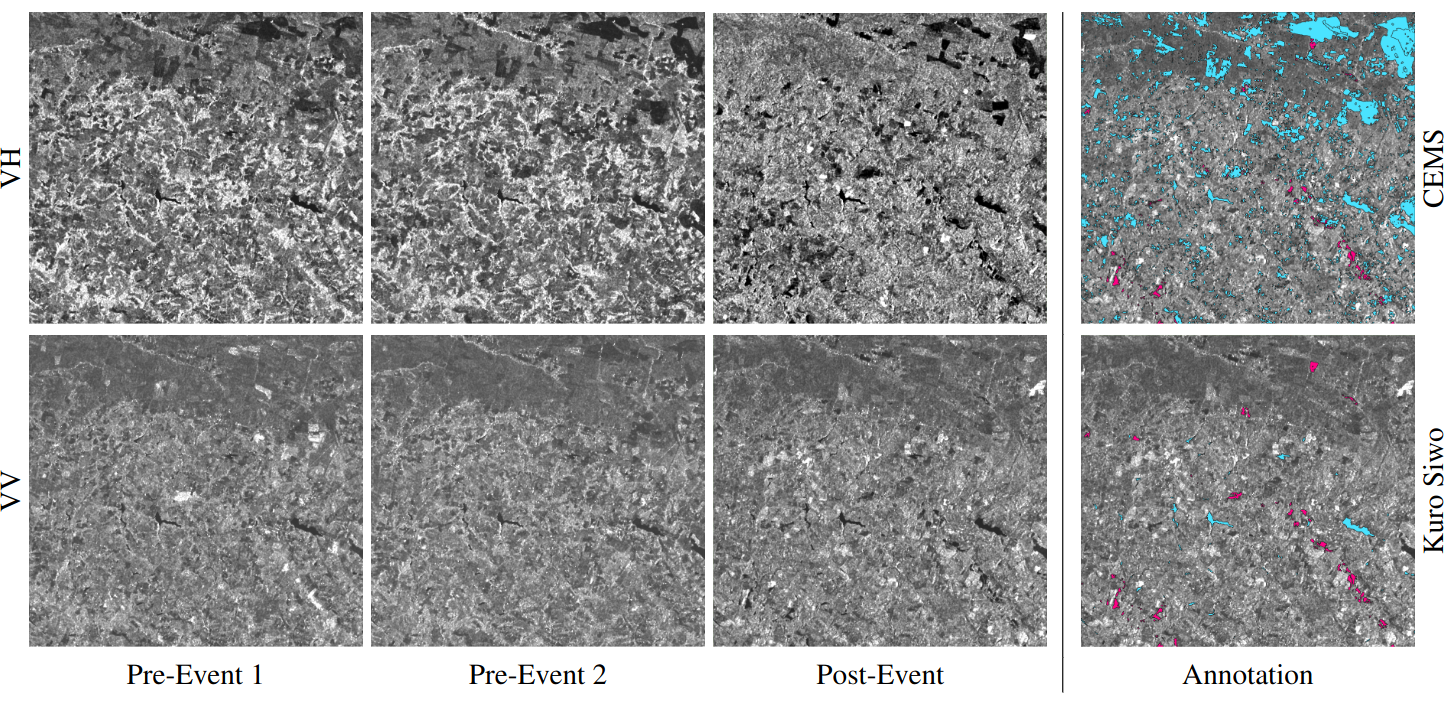
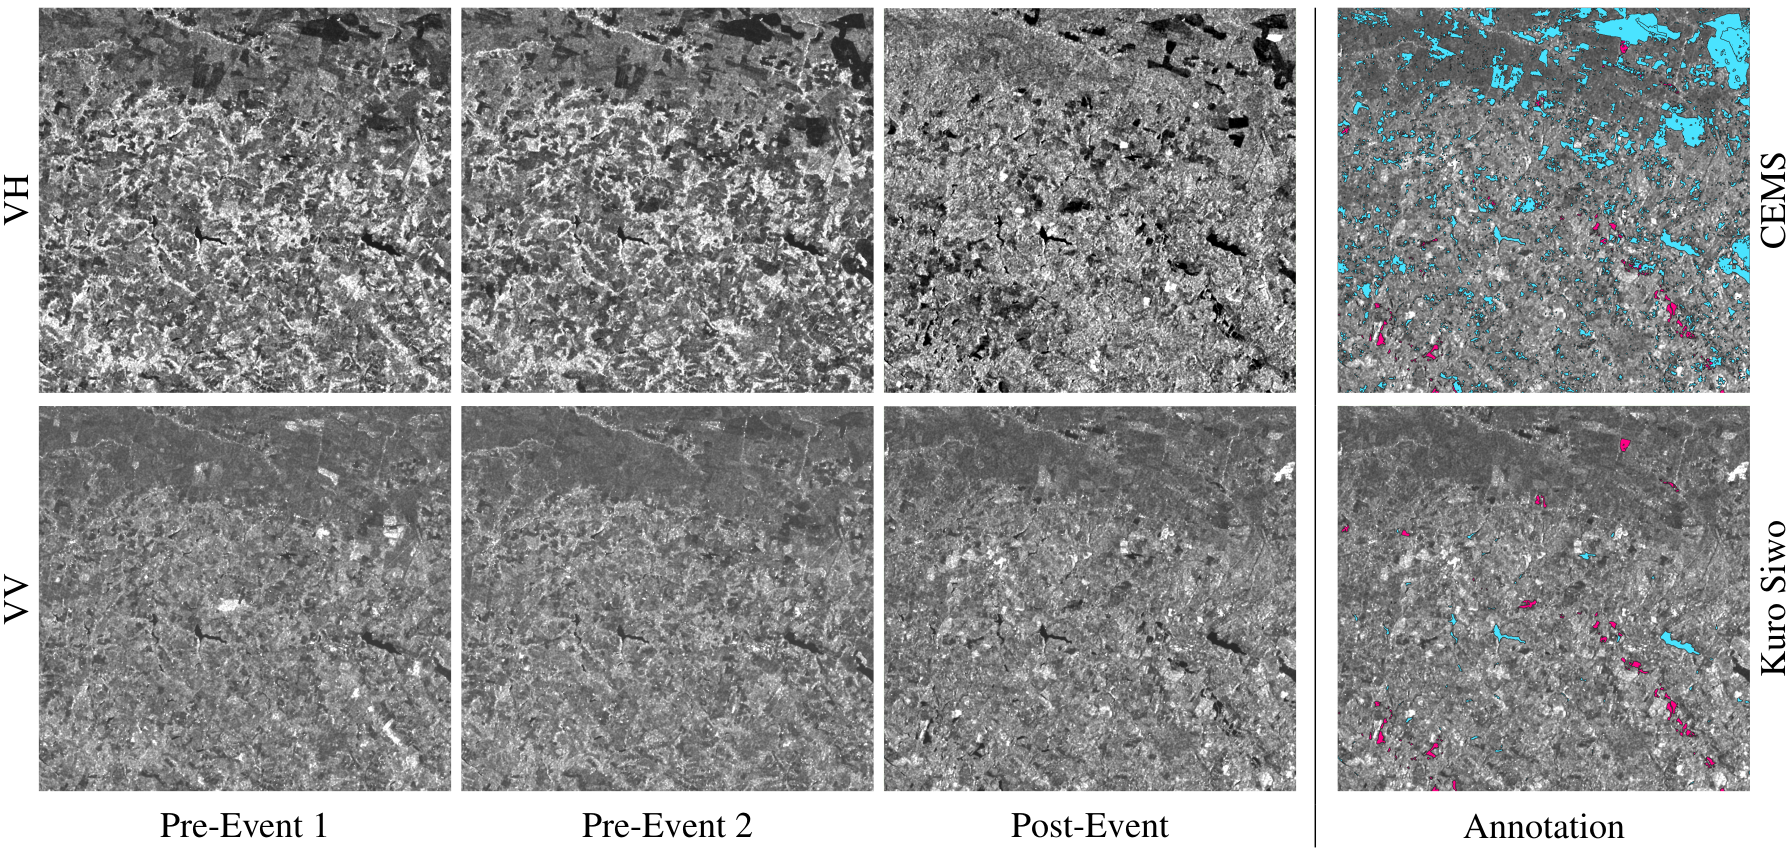
update kuro page

diff --git a/content/publication/bountos-2023-kuro/index.md b/content/publication/bountos-2023-kuro/index.md
@@ -22,9 +22,9 @@ url_dataset: 'https://github.com/Orion-AI-Lab/KuroSiwo'
 url_pdf: 'https://arxiv.org/pdf/2311.12056.pdf'
 
 
-abstract: 'Global floods, exacerbated by climate change, pose severe threats to human life, infrastructure, and the environment. This urgency is highlighted by recent catastrophic events in Pakistan and New Zealand, underlining the critical need for precise flood mapping for guiding restoration
+abstract: '<span style="font-size: 80%;">Global floods, exacerbated by climate change, pose severe threats to human life, infrastructure, and the environment. This urgency is highlighted by recent catastrophic events in Pakistan and New Zealand, underlining the critical need for precise flood mapping for guiding restoration
 efforts, understanding vulnerabilities, and preparing for future events. While Synthetic Aperture Radar (SAR) offers day-and-night, all-weather imaging capabilities, harnessing it for deep learning is hindered by the absence of a large annotated dataset. To bridge this gap, we introduce Kuro Siwo, a meticulously curated multi-temporal dataset, spanning 32 flood events globally. Our dataset maps more than 63 billion {{< math >}}$m^2${{< /math >}} of land, with 12.1 billion of them being either a flooded area or a permanent water body. Kuro Siwo stands out for its unparalleled annotation quality to
-facilitate rapid flood mapping.'
+facilitate rapid flood mapping.</span>'
 
 summary: ''
 
@@ -35,6 +35,28 @@ tags: [floods, deep learning, computer vision, remote sensing, SAR, synthetic ap
 # Add an image named `featured.jpg/png` to your page's folder then add a caption below.
 date: '2023-11-18'
 publishDate: '2023-11-27T15:58:12.211007Z'
+image:
+  caption: 'Spatial distribution of Kuro Siwo'
+  focal_point: ''
+  preview_only: false
 
 
 ---
+
+## Comparison of Kuro Siwo annotations with pre-existing Copernicus Emergency Service (CEMS) flood mapping
+<figure>
+    <img src="example.png"
+    <figcaption>
+      <span style="font-size: 80%;">
+      (left) Mosaic depicting Kuro Siwo samples for both VV and VH polarizations. (right) Copernicus Emergency Management
+      Service (CEMS) annotations for a 2020 flood event in an agricultural area in France vis `a vis Kuro Siwo photointerpretation. <span style="color: #00B9F2;"> Cyan </span> denotes permanent water bodies while <span style="color: rgb(220,79,117);">purple</span> indicates flooded areas. Notably, errors in CEMS annotations are apparent, particularly in the
+      Permanent Waters class, suggesting the possibility that the CEMS annotator solely used VH polarization for annotation in this particular
+      example.</span>
+</figcaption>
+
+
+## Qualitative evaluation of a model trained on Kuro Siwo
+![qualitative](qualitative.png)
+<span style="font-size: 80%;">
+Qualitative evaluation of a transformer based model in Honduras and Malawi. Flood is marked in <span style="color: rgb(220,79,117);">purple</span>, permanent waters in <span style="color: #00B9F2;">cyan</span> and
+non-water areas in **black**.</span>
